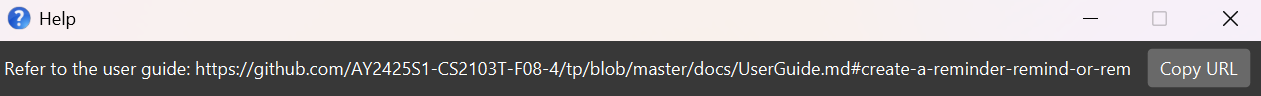
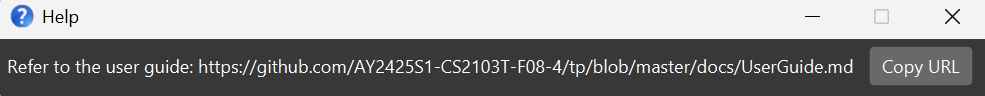
Fix help command

diff --git a/src/main/java/seedu/address/ui/HelpWindow.java b/src/main/java/seedu/address/ui/HelpWindow.java
@@ -16,7 +16,7 @@ import seedu.address.commons.core.LogsCenter;
 public class HelpWindow extends UiPart<Stage> {
 
     public static final String USERGUIDE_URL1 = "https://github.com/AY2425S1-CS2103T-F08-4/tp/blob/master/";
-    public static final String USERGUIDE_URL2 = "docs/UserGuide.md#create-a-reminder-remind-or-rem";
+    public static final String USERGUIDE_URL2 = "docs/UserGuide.md";
     public static final String HELP_MESSAGE = "Refer to the user guide: " + USERGUIDE_URL1 + USERGUIDE_URL2;
 
     private static final Logger logger = LogsCenter.getLogger(HelpWindow.class);
